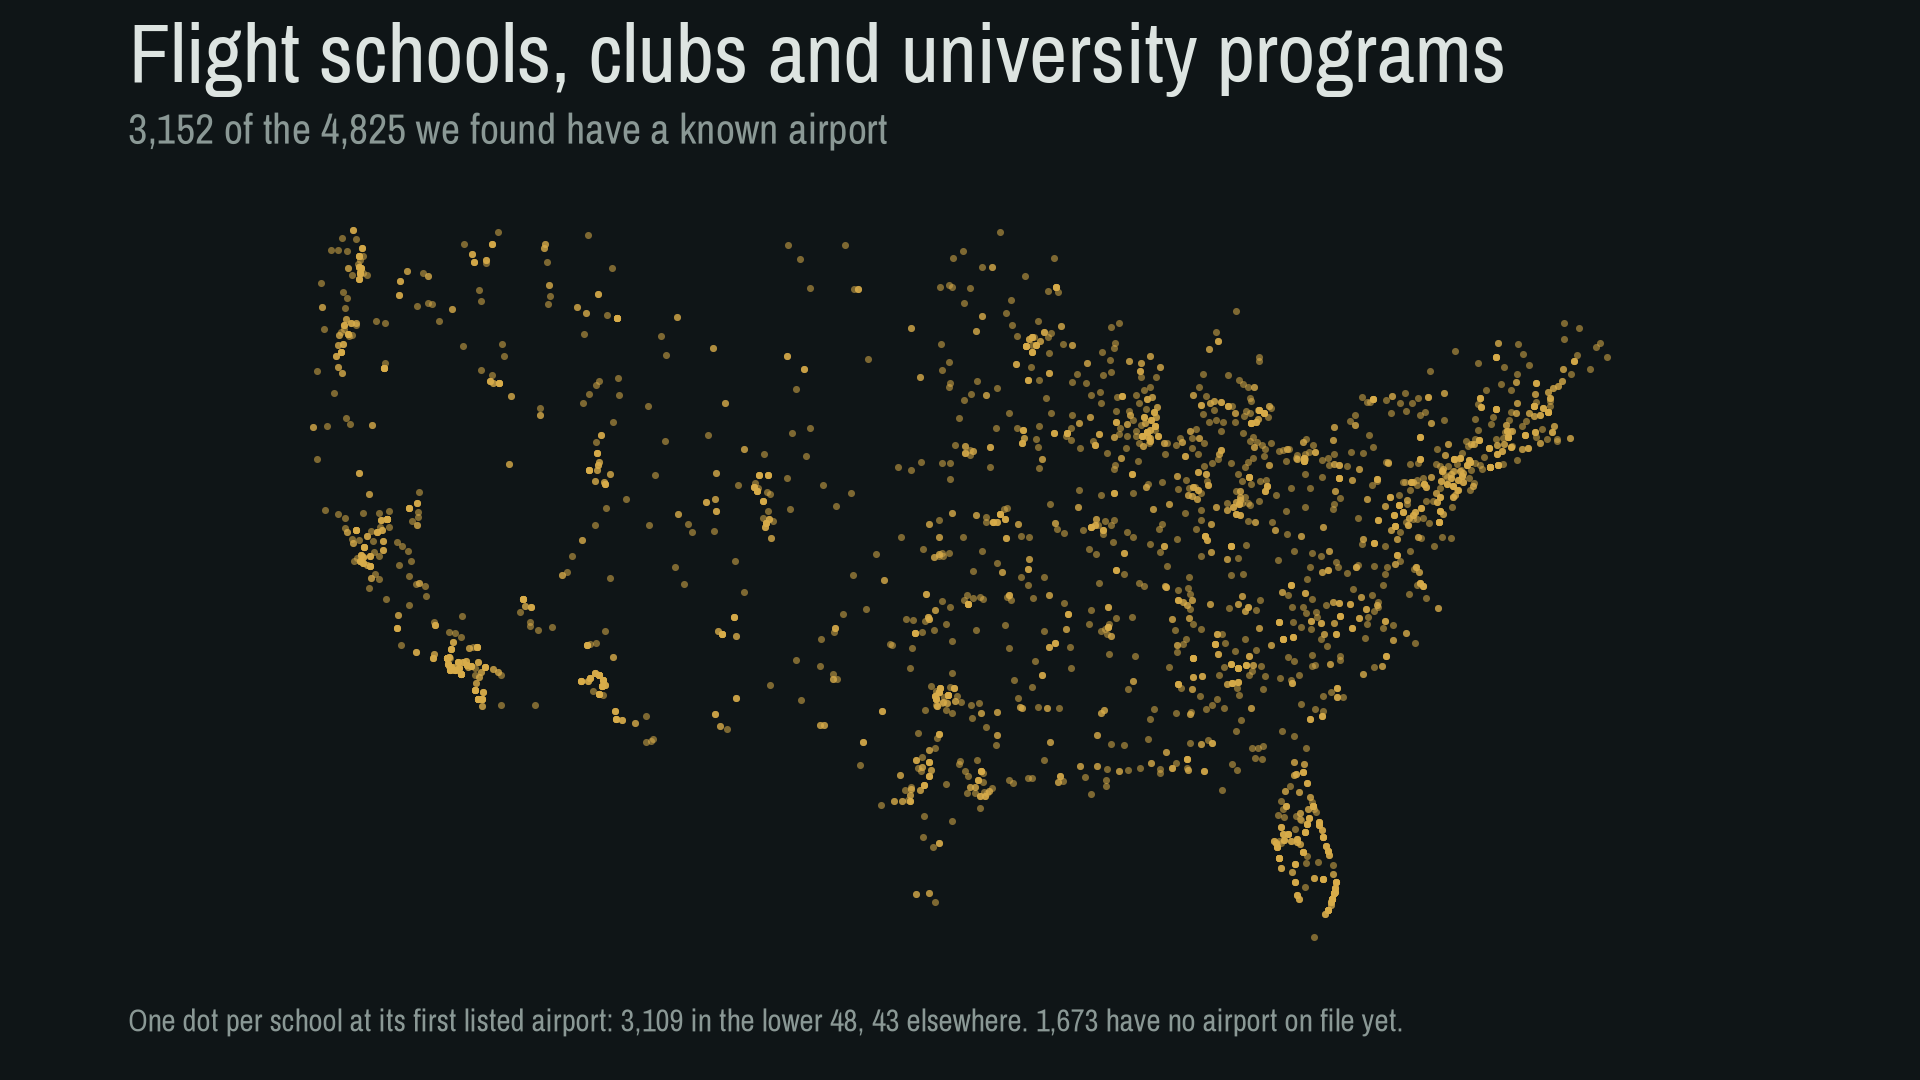
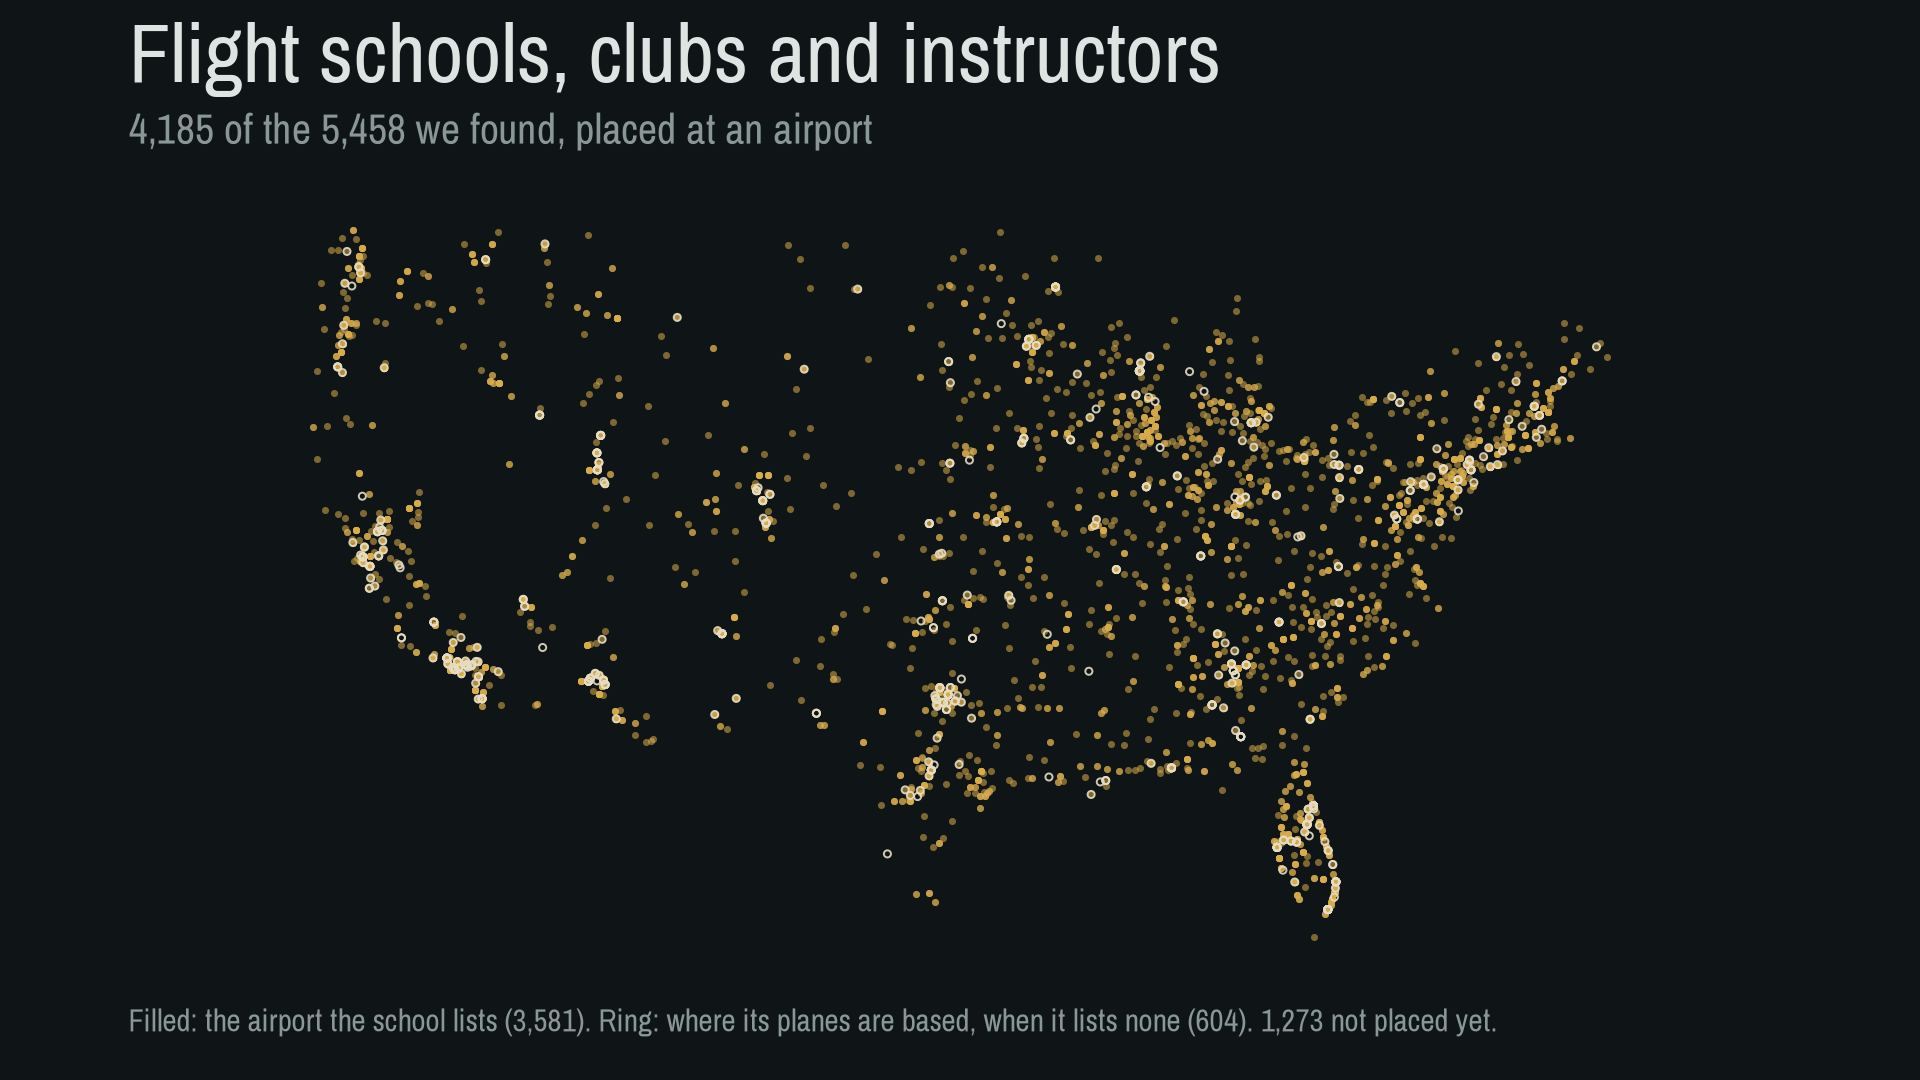
Deck: school map from today's data with inferred airports (53), slide table for the 21-slide deck
Claude-Session: https://claude.ai/code/session_01A8mvWpF5gVSGpSaSnLtBgz

diff --git a/research/FlightSchoolMapping/scripts/53_talk_backdrops.py b/research/FlightSchoolMapping/scripts/53_talk_backdrops.py
@@ -143,6 +143,8 @@ def yearbuilt(a, out):
 
 
 def schools(a, out):
+    """One dot per school at its first listed airport, or (buff) at its main inferred airport when it
+    lists none: inferred_locations, where its fleet is based (scripts/infer_airports.py)."""
     pos = {}
     for r in csv.DictReader(a.airports.open(encoding="utf-8")):
         if r["iso_country"] != "US":
@@ -152,28 +154,40 @@ def schools(a, out):
             if code:
                 pos.setdefault(code.upper(), ll)
     fl = json.loads(a.flight_line.read_text())
-    pts, missing = [], 0
+    listed, inferred, missing = [], [], 0
     for s in fl:
         ids = [l.get("airport_id") for l in (s.get("locations") or []) if l.get("airport_id")]
         ll = next((pos[i.upper()] for i in ids if i.upper() in pos), None)
         if ll:
-            pts.append(ll)
+            listed.append(ll)
+            continue
+        inf = [x["airport_id"] for x in (s.get("inferred_locations") or [])]
+        ll = next((pos[i.upper()] for i in inf if i and i.upper() in pos), None)
+        if ll:
+            inferred.append(ll)
         else:
             missing += 1
-    conus = [(la, lo) for la, lo in pts if 24 <= la <= 50 and -125 <= lo <= -66]
-    if len(conus) < 3000:
-        sys.exit(f"FAIL schools: only {len(conus)} placed")
-    fig = frame("Flight schools, clubs and university programs", f"{len(pts):,} of the {len(fl):,} we found have a known airport")
+    lower48 = lambda pts: [(la, lo) for la, lo in pts if 24 <= la <= 50 and -125 <= lo <= -66]  # noqa: E731
+    cl, ci = lower48(listed), lower48(inferred)
+    if len(cl) < 3000:
+        sys.exit(f"FAIL schools: only {len(cl)} placed")
+    placed = len(listed) + len(inferred)
+    fig = frame("Flight schools, clubs and instructors",
+                f"{placed:,} of the {len(fl):,} we found, placed at an airport")
     ax = fig.add_axes([0.04, 0.10, 0.92, 0.72])
     import math
     k = math.cos(math.radians(38))
-    ax.scatter([lo * k for la, lo in conus], [la for la, lo in conus], s=26, color=AMBER, alpha=0.55, linewidth=0)
+    ax.scatter([lo * k for la, lo in cl], [la for la, lo in cl], s=26, color=AMBER, alpha=0.55, linewidth=0)
+    ax.scatter([lo * k for la, lo in ci], [la for la, lo in ci], s=26, facecolors="none", edgecolors=BUFF,
+               linewidth=1.4, alpha=0.9)
     ax.set_aspect("equal")
     ax.axis("off")
-    footer(fig, f"One dot per school at its first listed airport: {len(conus):,} in the lower 48, {len(pts) - len(conus)} elsewhere. {missing:,} have no airport on file yet.")
+    footer(fig, f"Filled: the airport the school lists ({len(listed):,}). Ring: where its planes are based, when it lists "
+                f"none ({len(inferred):,}). {missing:,} not placed yet.")
     fig.savefig(out / "schools.png")
     plt.close(fig)
-    return {"schools": len(fl), "placed": len(pts), "conus": len(conus), "missing": missing}
+    return {"schools": len(fl), "listed": len(listed), "inferred": len(inferred), "missing": missing,
+            "conus_listed": len(cl), "conus_inferred": len(ci)}
 
 
 def main():

diff --git a/docs/hackers-2026-talk.md b/docs/hackers-2026-talk.md
@@ -108,28 +108,27 @@ Backdrops only: one number, chart, image or record each.
 
 | # | Act | Slide id | On it |
 |---|---|---|---|
-| 1 |  | `cover` | Scrape. Join. Interrogate. Four acts; Skybound's flight line as strips |
+| 1 |  | `cover` | Scrape. Join. Interrogate. |
 | 2 | 1 | `landscape` | What's public about aviation, and how hard it is to get |
-| 3 | 1 | `ask172` | "What does a Cessna 172 rent for, wet?" and why that's hard |
-| 4 | 1 | `answer172` | $177/h wet, half $160 to $195; typical plane 1978; post-1996 only $20 more |
-| 5 | 2 | `nolist` | There is a list. You can't see it. |
-| 6 | 2 | `schoolsmap` | Map of the schools |
-| 7 | 2 | `build` | One week in March: 32,462 pages, $100 |
-| 8 | 2 | `costnow` | Same job now: $15 |
-| 9 | 2 | `demo` | Demo recording |
-| 10 | 2 | `trace` | One row traced: N6860J |
-| 11 | 2 | `checked` | Consistency checks, not accuracy |
-| 12 | 2 | `misreads` | 81 bad tails, whose fault |
-| 13 | 2 | `audit` | 40 random pages read by hand |
-| 14 | 2 | `eightmonths` | Eight months later (being reworked: are the new blocks anti-AI?) |
-| 15 | 2 | `everylist` | Every list we could find: added, time, cost |
-| 16 | 3 | `learntofly` | Cost to learn to fly (becoming a map) |
-| 17 | 3 | `yearbuilt` | Year built (becoming the 1986 cliff and Cirrus) |
-| 18 | 3 | `hidden` | Who's behind the LLC? Three free joins |
-| 19 | 3 | `ntsb` | Flight-school aircraft have a past: 15.6% have an NTSB record vs 11.8%; 77% before the current owner |
-| 20 | 4 | `wish` | Datasets we wish existed |
-| 21 | 4 | `recipe` | The recipe, and what each step caught |
-| 22 | 4 | `getit` | Steal this: explorer, data, scripts |
+| 3 | 1 | `ask172` | "What does a Cessna 172 rent for, wet?" |
+| 4 | 1 | `answer172` | $177/h wet, half $160 to $195; typical plane 1978 |
+| 5 | 2 | `nolist` | ~9,000 Part 61 providers (TSA); nobody publishes the list; so we assembled 5,458 |
+| 6 | 2 | `schoolsmap` | Map: 4,185 placed (3,581 listed airport, 604 where their planes are based) |
+| 7 | 2 | `readcost` | What it costs to read 32,462 pages: person ~$11,000, Sonnet 4.6 $100, Sonnet 5.5 ~$120, Haiku 5.5 $15 |
+| 8 | 2 | `demo` | Demo recording |
+| 9 | 2 | `checked` | Consistency checks, not accuracy |
+| 10 | 2 | `misreads` | 81 bad tails, whose fault |
+| 11 | 2 | `audit` | 40 random pages read by hand |
+| 12 | 2 | `eightmonths` | Eight months later: 157 gone, 207 refuse, prices up |
+| 13 | 2 | `blocked` | Most schools didn't lock us out; their platforms did |
+| 14 | 2 | `everylist` | Every list we could find: added, time, cost |
+| 15 | 3 | `pickschool` | Pick the school, not the city (metro medians $157-$190; within a metro $39 apart) |
+| 16 | 3 | `cliff` | The industry nearly stopped building small planes; Cirrus is the new generation |
+| 17 | 3 | `hidden` | Who's behind the LLC? Three free joins |
+| 18 | 3 | `ntsb` | Flight-school aircraft have a past: 15.6% vs 11.8% |
+| 19 | 4 | `wish` | Datasets we wish existed |
+| 20 | 4 | `recipe` | The recipe, and what each step caught |
+| 21 | 4 | `getit` | Steal this |
 
 The deck is https://claude.ai/artifact/KUkKop9nCZBpYwrHGcuBtW (private to David). Cut 2026-11-04 after David's review (code fixes, joins table, never-flew, rate-vs-hours, the 372 funnel and the Google tiles slide): kept as files in the session scratchpad only. Being reworked: eightmonths (are the new blocks anti-AI defenses?), learntofly (a cost map), yearbuilt (the 1986 cliff and Cirrus).
 
